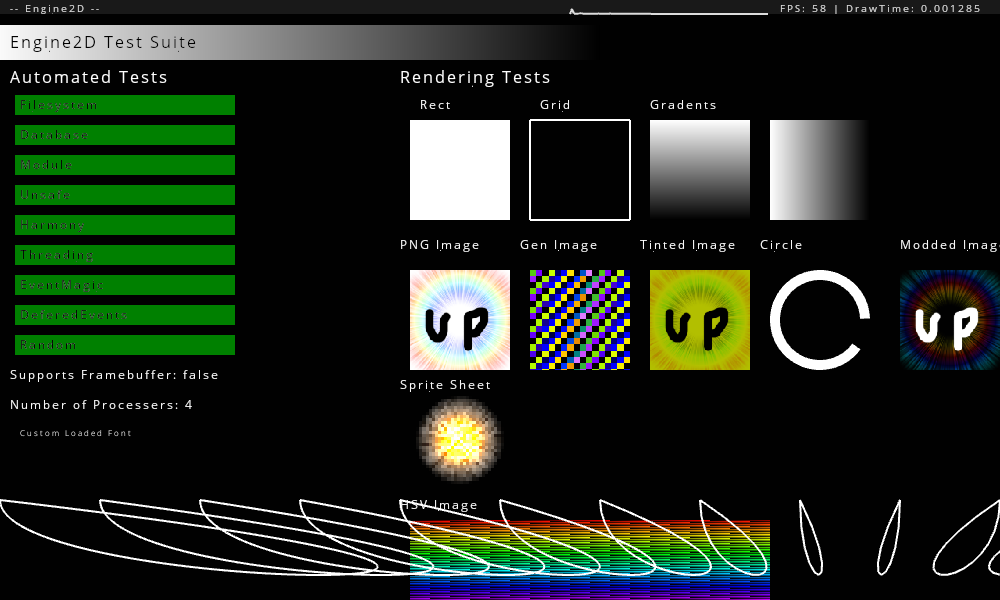
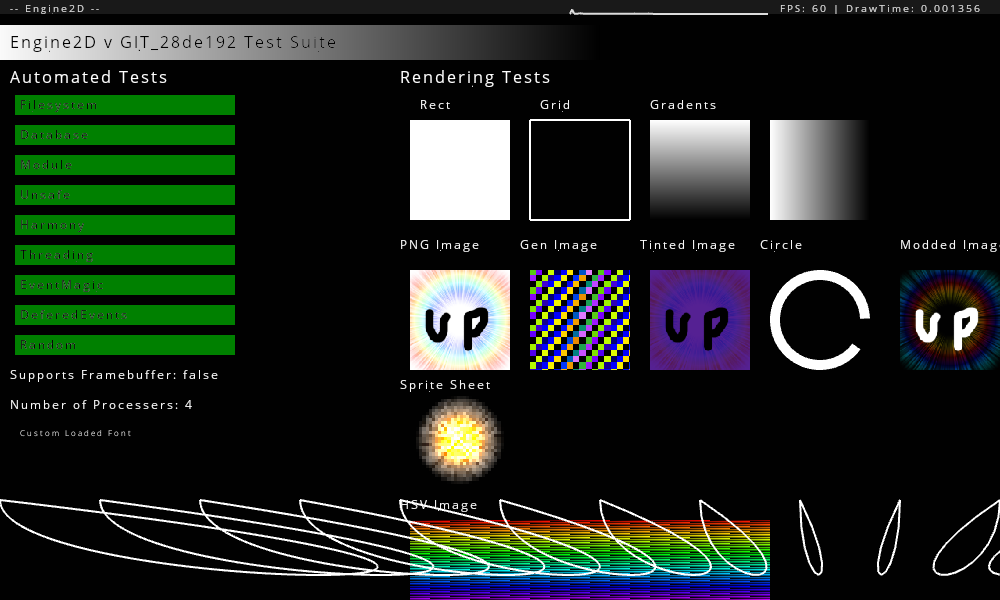
Added version info to res/script/test.js

Changed region(s): [[0.527, 0.45, 0.775, 0.63], [0.093, 0.06, 0.341, 0.09]]

diff --git a/res/script/test.js b/res/script/test.js
@@ -290,7 +290,7 @@ sys.on("draw", "test.draw", function () {
 	draw.grad(0, 25, 600, 35, 0xfafafa, 0x000000, false);
 	draw.drawColor = "black";
 	draw.setFont("basic", 16);
-	draw.print(10, 35, "Engine2D Test Suite");
+	draw.print(10, 35, sys.version().engine + " Test Suite");
 
 	draw.drawColor = "white";
 	draw.print(10, 70, "Automated Tests");
